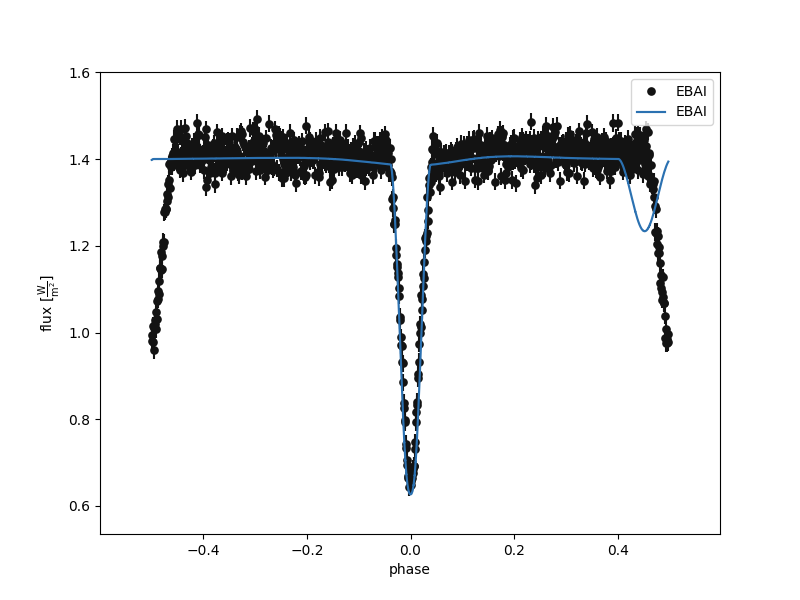
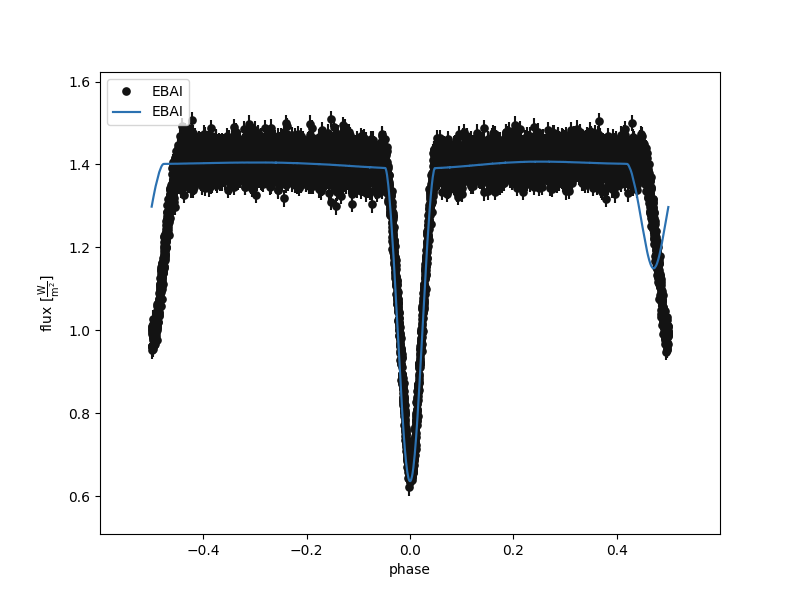
Continued to work on inverse computations

diff --git a/Efficiency.py b/Efficiency.py
@@ -1,0 +1,136 @@
+import phoebe as pb
+from phoebe import u # units
+import numpy as np
+import matplotlib.pyplot as plt
+import time
+
+def timeConvert(seconds):
+    m, s = divmod(seconds, 60)
+    return "%02d:%02d" % (m, s)
+
+def Run(n, failCount):
+    try:
+        print('\nStarting', n, 'data points')
+        start = time.time()
+        # Define bundle for the system
+        model = pb.Bundle()
+        model.add_star('primary', mass=1.5, requiv=1.2, teff=7000)  # Create primary star
+        model.add_star('secondary', mass=1.0, requiv=1.0, teff=6000)  # Create secondary star
+        model.add_orbit('binary', period=1.0, sma=7)  # Create binary system orbit
+        model.set_value('q', (model['value@mass@secondary@component'] / model[
+            'value@mass@primary@component']))  # Define the mass ratio
+        model.set_hierarchy(pb.hierarchy.binaryorbit(model['binary'], model['primary'],
+                                                     model['secondary']))  # Create hierachy of the system
+        # TODO look into better method of generating system using flip_constraint to define masses
+        # TODO will either need to be defined after set_hierarchy, or use default bundle
+
+        # Add lightcurve dataset
+        # n=1005
+        # n=100
+        times = pb.linspace(0, 10, n)
+        model.add_dataset('lc', times=times, passband='Johnson:R', dataset='lc01')
+
+        # Forward Compute
+        model.run_compute()
+
+        # Add errors:
+        C = 2 / 100  # Uncertainty as %
+        fluxes = model.get_value('fluxes', context='model')
+        sigmas = np.random.normal(0, C, size=times.shape)
+        newFluxes = fluxes * (1 + sigmas)
+
+        # Run model compute
+        model = pb.default_binary()
+        model.add_dataset('lc', times=times, fluxes=newFluxes, sigmas=np.full_like(newFluxes, fill_value=C))
+        model.set_value('pblum_mode', 'dataset-scaled')
+        model.plot(x='phase', legend=True, save='LigthcurveData.png', s=0.01, label='Data')
+        print('Plotted Data')
+
+        # Add EBAI Solver
+        # model.add_solver('estimator.lc_geometry', solver='lcGeom_solver') #LC Geomtry Solver
+        # model.add_solver('estimator.lc_periodogram', solver='lcPeriod_solver') #LC Periodogram Solver
+        model.add_solver('estimator.ebai', solver='ebai_solver')  # Neural Network Solver
+
+        # Run Solver
+        model.run_solver(solver='ebai_solver', solution='ebai_solution')
+        # solution = model.plot(solution='lc_solution', save='Solution.png')
+        # print('Plotted Solution')
+        # print(model.adopt_solution(trial_run=True))
+
+        model.flip_constraint('requivsumfrac', solve_for='requiv@primary')
+        model.flip_constraint('teffratio', solve_for='teff@primary')
+        model.flip_constraint('esinw', solve_for='ecc')
+        model.flip_constraint('ecosw', solve_for='per0')
+
+        adopt_params = []
+        for i, param in enumerate(model['value@fitted_values@ebai_solution']):
+            if np.isnan(param):
+                pass
+            else:
+                adopt_params.append(model['value@adopt_parameters@ebai_solution'][i])
+        model['adopt_parameters@ebai_solution'] = adopt_params
+
+        model.adopt_solution('ebai_solution')
+        model.run_compute()
+        model.plot(x='phase', ls='-', legend=True, save='EBAI_Solution.png', s=0.01, label='EBAI')
+        print('Plotted EBAI Solution')
+
+        # Add LC Geometry Solver
+        model.add_solver('estimator.lc_geometry', solver='lcGeom_solver')  # LC Geomtry Solver
+
+        model.run_solver('lcGeom_solver', solution='lcGeom_solution')
+
+        model.flip_constraint('per0', solve_for='ecosw')
+        model.flip_constraint('ecc', solve_for='esinw')
+
+        model.adopt_solution('lcGeom_solution')
+        model.run_compute()
+        model.plot(x='phase', ls='-', legend=True, save='Geometry_Solution.png', s=0.01, label='Geometry')
+        print('Plotted LC Geometry Solution')
+
+        # #Add LC Periodogram Solver
+        # model.add_solver('estimator.lc_periodogram', solver='lcPeriod_solver') #LC Periodogram Solver
+        #
+        # model.run_solver('lcPeriod_solver', solution='lcPeriod_solution')
+        #
+        # model.adopt_solution('lcPeriod_solution')
+        # model.run_compute()
+        # model.plot(x='phase', ls='-', legend=True, save='Periodogram_Solution.png', s=0.01, label='Periodogram')
+        # print('Plotted LC Periodogram Solution')
+
+        end = time.time()
+        print('\nCompute Time:', timeConvert(end - start))
+
+        compTimes.append(end - start)
+        print('Complete\n')
+
+    except (ValueError, AttributeError):
+        failCount+=1
+        print('FAIL\n')
+        if failCount<100:
+            Run(n, failCount)
+
+global compTimes
+compTimes = []
+
+dataPoints = [100,500,1005,1500,2000,2500,3000,3500,4000,4500,5000,5500,6000,6500,7000,7500,8000,8500,9000,9500,10000]
+for i in dataPoints:
+    failCount = 0
+    Run(i, failCount)
+
+times_seconds = np.array(compTimes)
+
+times = np.array([timeConvert(time) for time in times_seconds])
+
+fit = np.polyfit(times_seconds, dataPoints, 1)
+fittedPoints = fit[0] * times_seconds + fit[1]
+
+plt.cla()
+plt.plot(times_seconds, dataPoints, 'k.')
+plt.plot(times_seconds, fittedPoints, 'r-')
+plt.xticks(np.array([0,  600, 1200, 1800, 2400]), (timeConvert(0), timeConvert(600), timeConvert(1200), timeConvert(1800), timeConvert(2400)))
+plt.xticks(rotation=35)
+plt.subplots_adjust(bottom=0.15)
+plt.xlabel('Execution Time (minutes)')
+plt.ylabel('Number of Datapoints')
+plt.savefig('RunTimes.png')

diff --git a/Error Models.py b/Error Models.py
@@ -13,23 +13,25 @@ start = time.time()
 model = pb.Bundle()
 model.add_star('primary', mass=1.5, requiv=1.2, teff=7000) #Create primary star
 model.add_star('secondary', mass=1.0, requiv=1.0, teff=6000) #Create secondary star
-model.add_orbit('binary', period=1.0, sma=8) #Create binary system orbit
+model.add_orbit('binary', period=1.0, sma=7) #Create binary system orbit
 model.set_value('q', (model['value@mass@secondary@component'] / model['value@mass@primary@component'])) #Define the mass ratio
-model.set_hierarchy(pb.hierarchy.binaryorbit(model['binary'], model['primary'], model['secondary'])) #Create hierachy of the system
+model.set_hierarchy(pb.hierarchy.binaryorbit(model['binary'], model['primary'],
+                                             model['secondary'])) #Create hierachy of the system
 #TODO look into better method of generating system using flip_constraint to define masses
 #TODO will either need to be defined after set_hierarchy, or use default bundle
 
 #Add lightcurve dataset
-times = pb.linspace(0, 10, 1005)
-model.add_dataset('lc', times = times, passband='Johnson:R', dataset='lc01')
+n=1005
+times = pb.linspace(0, 10, n)
+model.add_dataset('lc', times=times, passband='Johnson:R', dataset='lc01')
 
 #Forward Compute
 model.run_compute()
 
 #Add errors:
-C = 2/100 #Uncertainty as %
+C = 2 / 100 #Uncertainty as %
 fluxes = model.get_value('fluxes', context='model')
-sigmas = np.random.normal(0,C,size=times.shape)
+sigmas = np.random.normal(0, C, size=times.shape)
 newFluxes = fluxes * (1 + sigmas)
 
 #Run model compute
@@ -38,7 +40,6 @@ model.add_dataset('lc', times=times, fluxes=newFluxes, sigmas=np.full_like(newFl
 model.set_value('pblum_mode', 'dataset-scaled')
 model.plot(x='phase', legend=True, save='LigthcurveData.png', s=0.01, label='Data')
 print('Plotted Data')
-
 
 #Add EBAI Solver
 #model.add_solver('estimator.lc_geometry', solver='lcGeom_solver') #LC Geomtry Solver
@@ -69,7 +70,6 @@ model.run_compute()
 model.plot(x='phase', ls='-', legend=True, save='EBAI_Solution.png', s=0.01, label='EBAI')
 print('Plotted EBAI Solution')
 
-
 #Add LC Geometry Solver
 model.add_solver('estimator.lc_geometry', solver='lcGeom_solver') #LC Geomtry Solver
 
@@ -81,9 +81,17 @@ model.flip_constraint('ecc', solve_for='esinw')
 model.adopt_solution('lcGeom_solution')
 model.run_compute()
 model.plot(x='phase', ls='-', legend=True, save='Geometry_Solution.png', s=0.01, label='Geometry')
+print('Plotted LC Geometry Solution')
 
-
-
+# #Add LC Periodogram Solver
+# model.add_solver('estimator.lc_periodogram', solver='lcPeriod_solver') #LC Periodogram Solver
+#
+# model.run_solver('lcPeriod_solver', solution='lcPeriod_solution')
+#
+# model.adopt_solution('lcPeriod_solution')
+# model.run_compute()
+# model.plot(x='phase', ls='-', legend=True, save='Periodogram_Solution.png', s=0.01, label='Periodogram')
+# print('Plotted LC Periodogram Solution')
 
 end = time.time()
-print('\nCompute Time:',timeConvert(end-start))
+print('\nCompute Time:', timeConvert(end - start))

diff --git a/PhoebeTest3.py b/PhoebeTest3.py
@@ -1,36 +1,45 @@
-import phoebe
+import phoebe as pb
 from phoebe import u # units
 import numpy as np
 
-logger = phoebe.logger()
+logger = pb.logger()
 
-b = phoebe.default_binary()
+b = pb.default_binary()
 # set parameter values
-b.set_value('q', value = 0.6)
-#b.set_value('incl', component='binary', value = 84.5)
-b.set_value('ecc', 0.2)
-b.set_value('per0', 63.7)
-b.set_value('requiv', component='primary', value=1.)
-b.set_value('requiv', component='secondary', value=0.6)
-b.set_value('teff', component='secondary', value=5500.)
+b.set_value('period', component='binary', value = 10.0)
 
 # add an lc dataset
-b.add_dataset('lc', compute_phases=phoebe.linspace(0,1,101))
+times = pb.linspace(0,1,101)
+b.add_dataset('lc', compute_phases=times)
 
 #compute the model
 b.run_compute(irrad_method='none')
 
-# extract the arrays from the model that we'll use as observables in the next step
-times = b.get_value('times', context='model', dataset='lc01')
-# here we're adding noise to the fluxes as well to make the fake data more "realistic"
-np.random.seed(0) # to ensure reproducibility with added noise
-fluxes = b.get_value('fluxes', context='model', dataset='lc01') + np.random.normal(size=times.shape) * 0.02
-sigmas_lc = np.ones_like(times) * 0.04
-
-b = phoebe.default_binary()
-b.add_dataset('lc', times=times, fluxes=fluxes, sigmas=sigmas_lc)
-b.set_value('pblum_mode', 'dataset-scaled')
-
-b.run_compute(model='default')
 b.plot(x='phase', legend=True, save='1', s=0.01)
-print('Plotted 1')
+
+#Add errors:
+C = 2/100 #Uncertainty as %
+fluxes = b.get_value('fluxes', context='model')
+sigmas = np.random.normal(0,C,size=times.shape)
+newFluxes = fluxes * (1 + sigmas)
+
+#Run model compute
+b = pb.default_binary()
+b.add_dataset('lc', times=times, fluxes=newFluxes, sigmas=np.full_like(newFluxes, fill_value=C))
+b.set_value('pblum_mode', 'dataset-scaled')
+b.plot(x='phase', legend=True, save='2.png', s=0.01, label='Data')
+
+# # extract the arrays from the model that we'll use as observables in the next step
+# times = b.get_value('times', context='model', dataset='lc01')
+# # here we're adding noise to the fluxes as well to make the fake data more "realistic"
+# np.random.seed(0) # to ensure reproducibility with added noise
+# fluxes = b.get_value('fluxes', context='model', dataset='lc01') + np.random.normal(size=times.shape) * 0.02
+# sigmas_lc = np.ones_like(times) * 0.04
+#
+# b = phoebe.default_binary()
+# b.add_dataset('lc', times=times, fluxes=fluxes, sigmas=sigmas_lc)
+# b.set_value('pblum_mode', 'dataset-scaled')
+#
+# b.run_compute(model='default')
+# b.plot(x='phase', legend=True, save='1', s=0.01)
+# print('Plotted 1')
